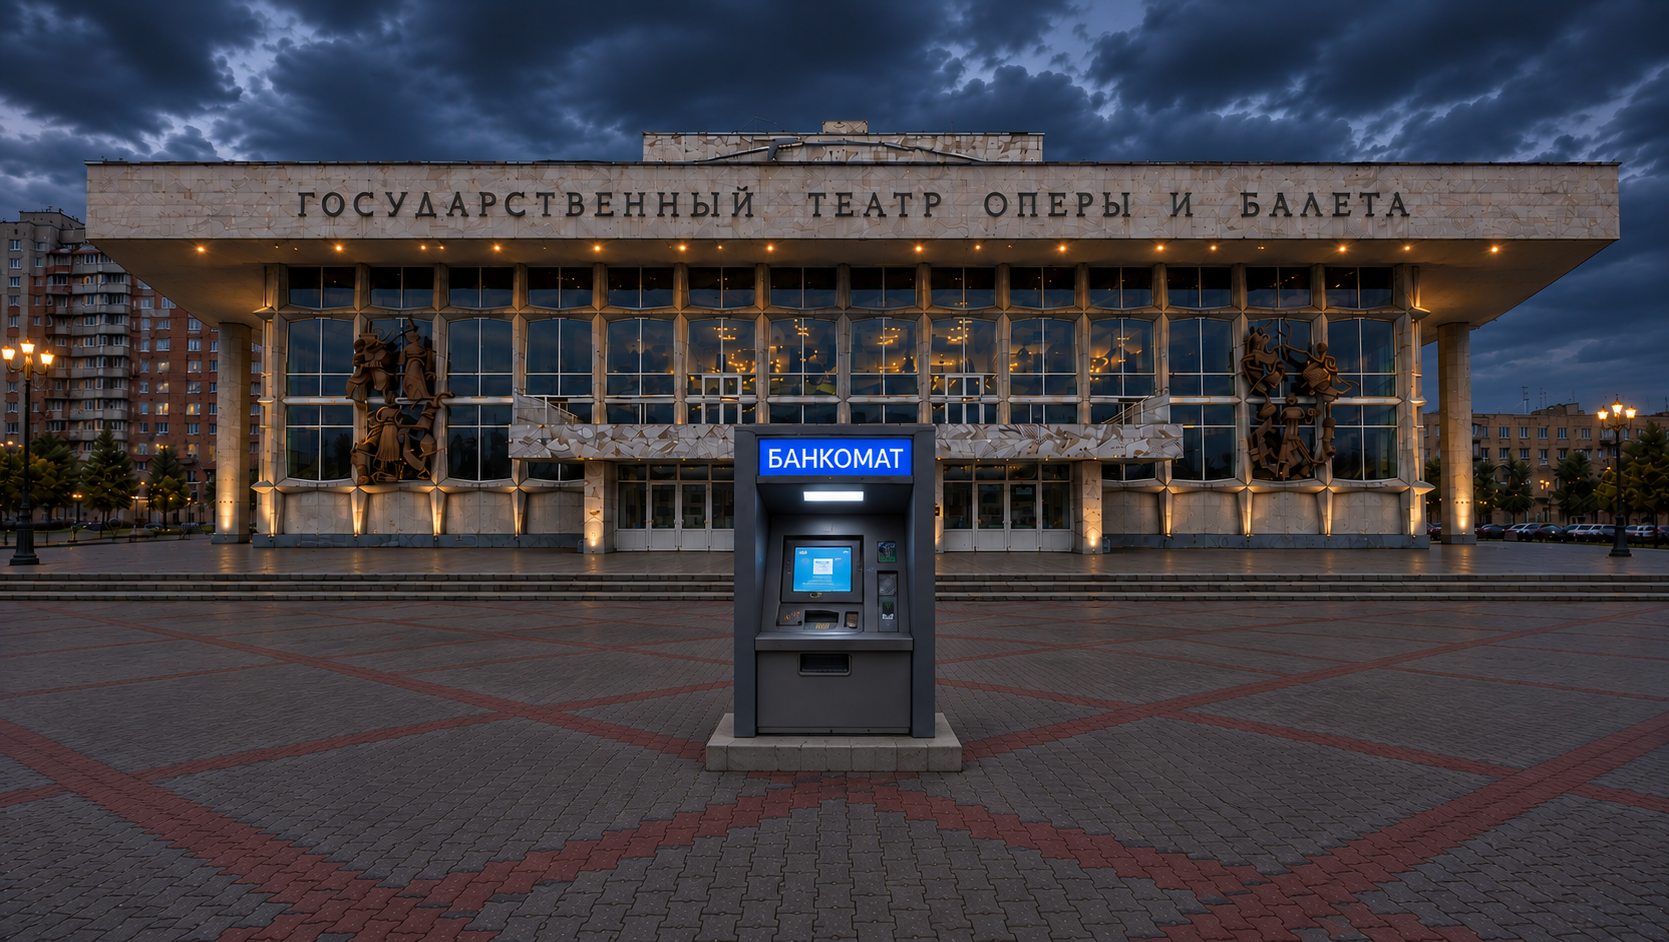
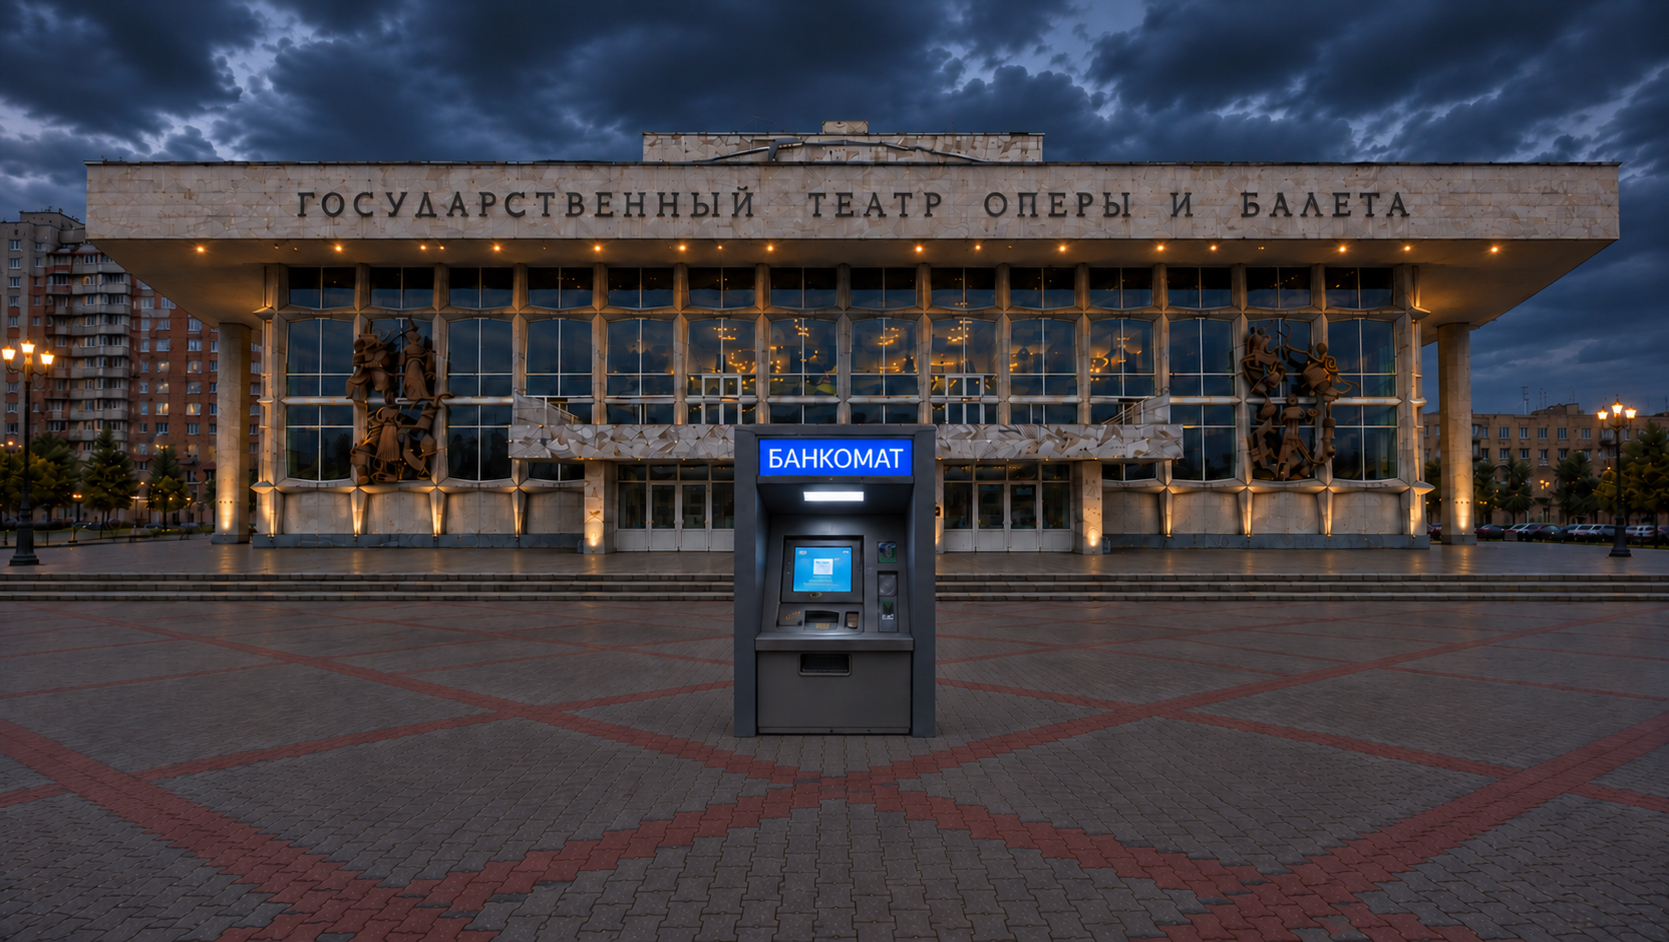
Align ATM occlusion with its body

diff --git a/src/game.bundle.js b/src/game.bundle.js
@@ -6,7 +6,7 @@
 
 /* ===== src/config.js ===== */
 const GAME_CONFIG = {
-  "buildVersion": "0.4.331",
+  "buildVersion": "0.4.332",
   "width": 1280,
   "height": 720,
   "targetFPS": 60,
@@ -1077,29 +1077,29 @@ const GAME_CONFIG = {
           "hitsToTrigger": 3,
           "hitbox": {
             "x": 570,
-            "y": 365,
+            "y": 326,
             "w": 142,
-            "h": 208
+            "h": 238
           },
           "effectRect": {
-            "x": 554,
-            "y": 322,
-            "w": 176,
-            "h": 268
+            "x": 570,
+            "y": 326,
+            "w": 142,
+            "h": 238
           },
           "maskRect": {
-            "x": 540,
+            "x": 570,
             "y": 326,
-            "w": 196,
-            "h": 286
+            "w": 142,
+            "h": 238
           },
-          "occlusionY": 584,
+          "occlusionY": 564,
           "blockFootprint": {
-            "x": 540,
-            "y": 566,
-            "w": 194,
-            "h": 46,
-            "insetTop": 18
+            "x": 570,
+            "y": 542,
+            "w": 142,
+            "h": 26,
+            "insetTop": 0
           },
           "hitEffect": "metalImpact",
           "impactSfx": "garageGateMetal"
@@ -8015,7 +8015,7 @@ class LevelScene {
     const occluders = this.getLevelForegroundOccluders ? this.getLevelForegroundOccluders() : [];
     const isBehindOccluder = (entity) => occluders.some((item) => {
       const rect = item.maskRect;
-      return rect && entity.ref.x >= rect.x - 18 && entity.ref.x <= rect.x + rect.w + 18 && entity.y < item.occlusionY;
+      return rect && entity.ref.x >= rect.x && entity.ref.x <= rect.x + rect.w && entity.y < item.occlusionY;
     });
     const behind = entities.filter(isBehindOccluder);
     const front = entities.filter(entity => !isBehindOccluder(entity));
@@ -17053,7 +17053,7 @@ window.addEventListener('load', () => {
     const occluders = this.getLevelForegroundOccluders ? this.getLevelForegroundOccluders() : [];
     const isBehindOccluder = (entity) => occluders.some((item) => {
       const rect = item.maskRect;
-      return rect && entity.ref.x >= rect.x - 18 && entity.ref.x <= rect.x + rect.w + 18 && entity.y < item.occlusionY;
+      return rect && entity.ref.x >= rect.x && entity.ref.x <= rect.x + rect.w && entity.y < item.occlusionY;
     });
     const behind = entities.filter(isBehindOccluder);
     const front = entities.filter(entity => !isBehindOccluder(entity));

diff --git a/src/config.js b/src/config.js
@@ -1,5 +1,5 @@
 const GAME_CONFIG = {
-  "buildVersion": "0.4.331",
+  "buildVersion": "0.4.332",
   "width": 1280,
   "height": 720,
   "targetFPS": 60,
@@ -1070,29 +1070,29 @@ const GAME_CONFIG = {
           "hitsToTrigger": 3,
           "hitbox": {
             "x": 570,
-            "y": 365,
+            "y": 326,
             "w": 142,
-            "h": 208
+            "h": 238
           },
           "effectRect": {
-            "x": 554,
-            "y": 322,
-            "w": 176,
-            "h": 268
+            "x": 570,
+            "y": 326,
+            "w": 142,
+            "h": 238
           },
           "maskRect": {
-            "x": 540,
+            "x": 570,
             "y": 326,
-            "w": 196,
-            "h": 286
+            "w": 142,
+            "h": 238
           },
-          "occlusionY": 584,
+          "occlusionY": 564,
           "blockFootprint": {
-            "x": 540,
-            "y": 566,
-            "w": 194,
-            "h": 46,
-            "insetTop": 18
+            "x": 570,
+            "y": 542,
+            "w": 142,
+            "h": 26,
+            "insetTop": 0
           },
           "hitEffect": "metalImpact",
           "impactSfx": "garageGateMetal"

diff --git a/src/scene.js b/src/scene.js
@@ -835,7 +835,7 @@ class LevelScene {
     const occluders = this.getLevelForegroundOccluders ? this.getLevelForegroundOccluders() : [];
     const isBehindOccluder = (entity) => occluders.some((item) => {
       const rect = item.maskRect;
-      return rect && entity.ref.x >= rect.x - 18 && entity.ref.x <= rect.x + rect.w + 18 && entity.y < item.occlusionY;
+      return rect && entity.ref.x >= rect.x && entity.ref.x <= rect.x + rect.w && entity.y < item.occlusionY;
     });
     const behind = entities.filter(isBehindOccluder);
     const front = entities.filter(entity => !isBehindOccluder(entity));

diff --git a/src/levelFlow.js b/src/levelFlow.js
@@ -174,7 +174,7 @@
     const occluders = this.getLevelForegroundOccluders ? this.getLevelForegroundOccluders() : [];
     const isBehindOccluder = (entity) => occluders.some((item) => {
       const rect = item.maskRect;
-      return rect && entity.ref.x >= rect.x - 18 && entity.ref.x <= rect.x + rect.w + 18 && entity.y < item.occlusionY;
+      return rect && entity.ref.x >= rect.x && entity.ref.x <= rect.x + rect.w && entity.y < item.occlusionY;
     });
     const behind = entities.filter(isBehindOccluder);
     const front = entities.filter(entity => !isBehindOccluder(entity));

diff --git a/index.html b/index.html
@@ -11,7 +11,7 @@
 
   <script>
     (() => {
-      const version = '0.4.331';
+      const version = '0.4.332';
       const script = document.createElement('script');
       script.src = `src/game.bundle.js?v=${version}`;
       script.async = false;
